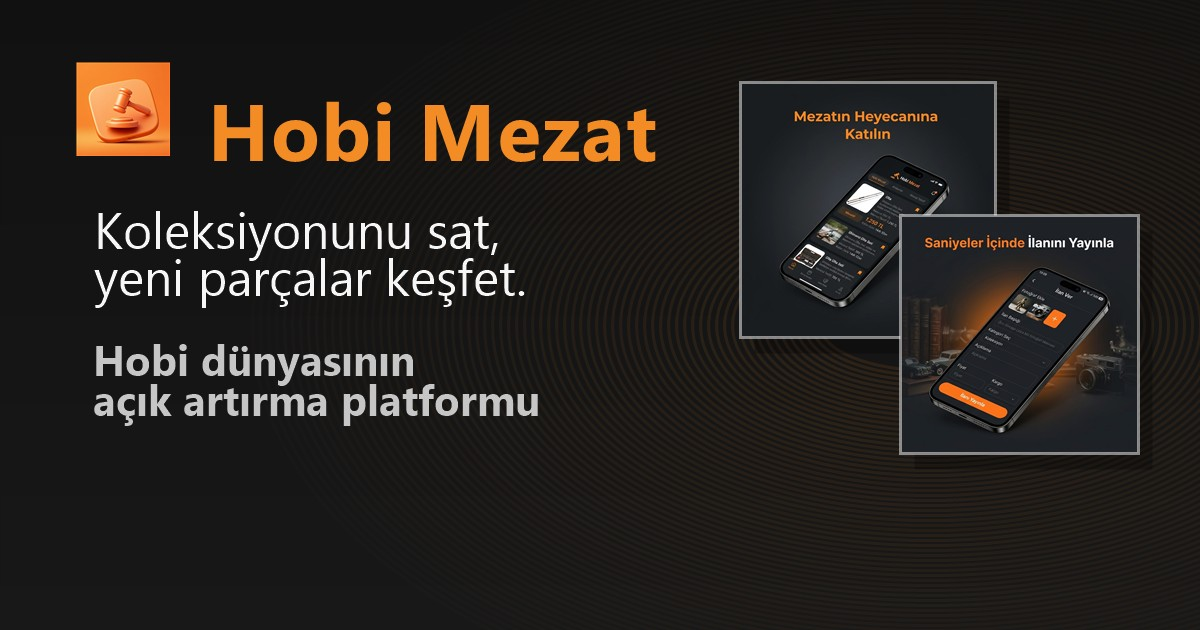
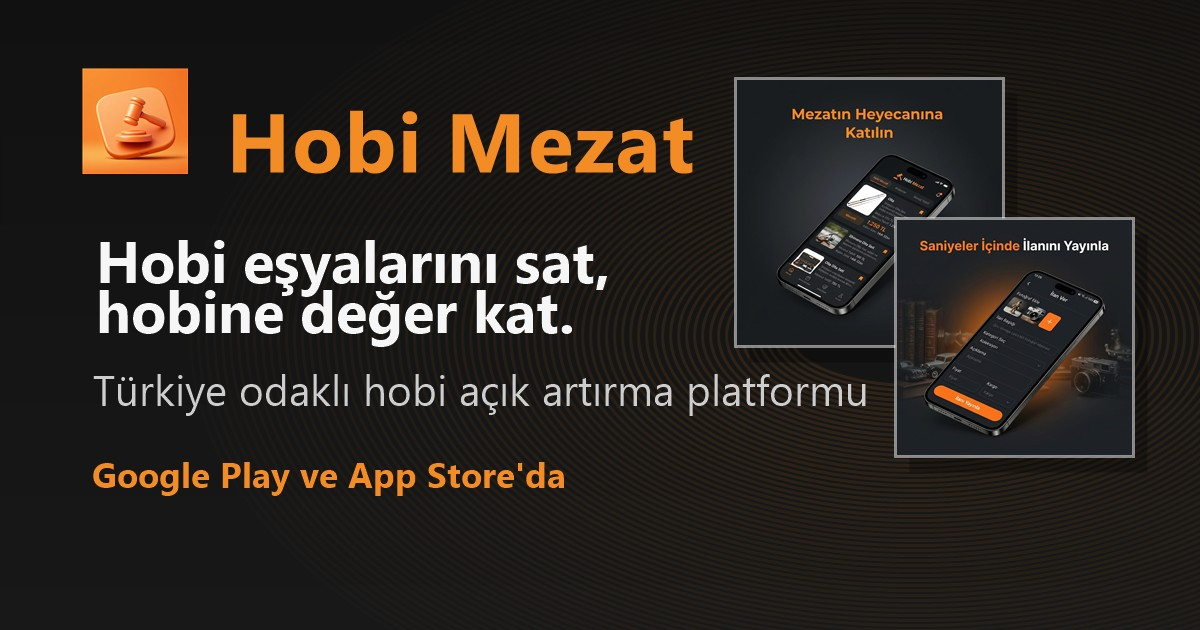
Polish landing details

Changed region(s): [[0.0617, 0.0905, 0.9558, 0.754], [0.0617, 0.7238, 0.4933, 0.7841]]

diff --git a/index.html b/index.html
@@ -65,8 +65,41 @@
       padding: 24px 18px 26px;
     }
 
+    .brand-bar {
+      display: flex;
+      justify-content: center;
+      margin-bottom: 18px;
+    }
+
+    .brand-mark {
+      display: inline-flex;
+      align-items: center;
+      gap: 10px;
+      border: 1px solid rgba(255, 255, 255, 0.08);
+      border-radius: 999px;
+      background: rgba(255, 255, 255, 0.035);
+      padding: 8px 14px 8px 9px;
+      color: #fff;
+      text-decoration: none;
+      box-shadow: 0 12px 30px rgba(0, 0, 0, 0.18);
+    }
+
+    .brand-mark img {
+      width: 34px;
+      height: 34px;
+      border-radius: 10px;
+    }
+
+    .brand-mark strong {
+      color: #f48c25;
+      font-size: 1rem;
+      line-height: 1;
+    }
+
     .video-hero {
       display: flex;
+      flex-direction: column;
+      align-items: center;
       justify-content: center;
       width: 100%;
       margin: 0 auto 28px;
@@ -87,6 +120,13 @@
       max-height: min(82vh, 820px);
       background: #0f0f0f;
       object-fit: contain;
+    }
+
+    .video-note {
+      margin-top: 10px;
+      color: #9f9f9f;
+      font-size: 0.86rem;
+      text-align: center;
     }
 
     .intro {
@@ -124,19 +164,21 @@
       display: flex;
       align-items: center;
       gap: 10px;
-      width: 184px;
-      min-height: 58px;
-      border: 1px solid rgba(255, 255, 255, 0.1);
-      border-radius: 12px;
-      background: #f48c25;
+      width: 205px;
+      min-height: 62px;
+      border: 1px solid rgba(255, 190, 117, 0.45);
+      border-radius: 14px;
+      background: linear-gradient(135deg, #f48c25, #ffad54);
       color: #141414;
-      padding: 9px 13px;
+      padding: 10px 14px;
       text-decoration: none;
-      box-shadow: 0 14px 30px rgba(244, 140, 37, 0.18);
+      box-shadow:
+        inset 0 1px 0 rgba(255, 255, 255, 0.22),
+        0 14px 30px rgba(244, 140, 37, 0.2);
     }
 
     .store-link:hover {
-      background: #ff9a33;
+      background: linear-gradient(135deg, #ff9a33, #ffba6e);
       transform: translateY(-1px);
     }
 
@@ -162,7 +204,7 @@
 
     .store-copy small {
       color: rgba(20, 20, 20, 0.72);
-      font-size: 0.64rem;
+      font-size: 0.68rem;
       font-weight: 800;
     }
 
@@ -256,6 +298,10 @@
         padding: 14px 12px 24px;
       }
 
+      .brand-bar {
+        margin-bottom: 14px;
+      }
+
       .video-hero {
         margin-bottom: 24px;
       }
@@ -275,6 +321,7 @@
       .store-link {
         width: calc(50% - 6px);
         min-width: 0;
+        padding-inline: 11px;
       }
 
       .store-copy small {
@@ -302,6 +349,13 @@
 </head>
 <body>
   <main class="page">
+    <header class="brand-bar" aria-label="Hobi Mezat">
+      <a class="brand-mark" href="/" aria-label="Hobi Mezat ana sayfa">
+        <img src="favicon.png" alt="" width="34" height="34" />
+        <strong>Hobi Mezat</strong>
+      </a>
+    </header>
+
     <section class="video-hero" aria-label="Hobi Mezat tanıtım videosu">
       <div class="video-frame">
         <video class="hero-video" controls autoplay muted loop playsinline preload="metadata">
@@ -309,6 +363,7 @@
           Tarayıcınız video oynatmayı desteklemiyor.
         </video>
       </div>
+      <p class="video-note">Video otomatik sessiz başlar; sesi açarak tanıtımı izleyebilirsin.</p>
     </section>
 
     <section class="intro" aria-label="Hobi Mezat bağlantıları">
@@ -334,8 +389,8 @@
             </svg>
           </span>
           <span class="store-copy">
-            <small>HEMEN İNDİR</small>
-            <strong>Google Play</strong>
+            <small>GOOGLE PLAY'DEN</small>
+            <strong>İndir</strong>
           </span>
         </a>
         <a
@@ -350,8 +405,8 @@
             </svg>
           </span>
           <span class="store-copy">
-            <small>İNDİR</small>
-            <strong>App Store</strong>
+            <small>APP STORE'DAN</small>
+            <strong>İndir</strong>
           </span>
         </a>
       </div>
@@ -408,7 +463,7 @@
       <span class="footer-links">
         <a href="/gizlilik.html">Gizlilik Politikası</a>
         <span>·</span>
-        <a href="mailto:fatihberber83@gmail.com">İletişim</a>
+        <a href="mailto:hobimmezat@gmail.com">İletişim</a>
       </span>
     </footer>
   </main>
